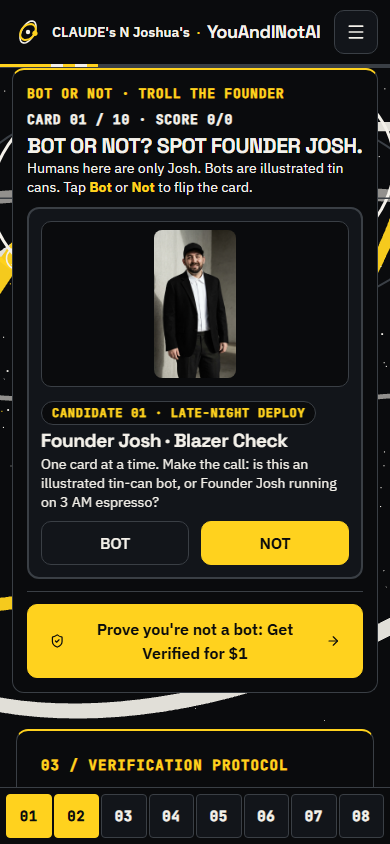
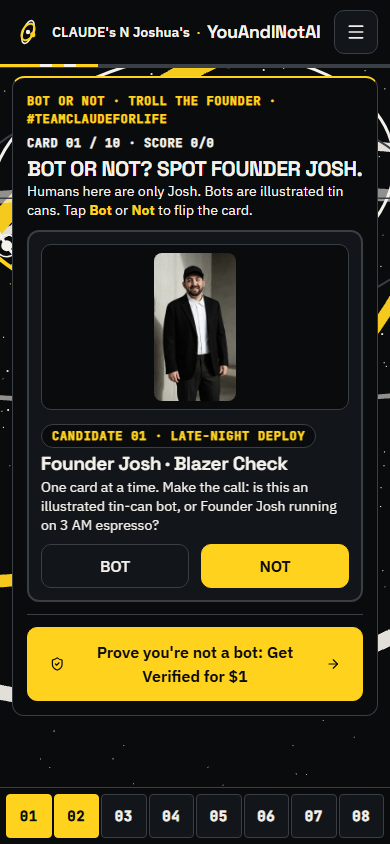
dateapp: refine Bot or Not stage framing and refresh 390x844 + 1920x1080 frames

diff --git a/domains/youandinotai.com/frontend/src/components/BotOrNotGame.tsx b/domains/youandinotai.com/frontend/src/components/BotOrNotGame.tsx
@@ -394,6 +394,30 @@ export function BotOrNotGame() {
     return undefined;
   }, []);
 
+  useEffect(() => {
+    if (typeof window === 'undefined' || typeof document === 'undefined') {
+      return;
+    }
+    const params = new URLSearchParams(window.location.search);
+    if (
+      params.has('botOrNotCard') ||
+      params.has('botOrNotFlipped') ||
+      window.location.hash === '#bot-or-not'
+    ) {
+      const scrollTarget = () => {
+        const el = document.getElementById('bot-or-not');
+        if (!el) return;
+        const rect = el.getBoundingClientRect();
+        const top = Math.max(0, rect.top + window.scrollY - 64);
+        window.scrollTo({ top, behavior: 'instant' as ScrollBehavior });
+      };
+      scrollTarget();
+      const id = window.setTimeout(scrollTarget, 120);
+      return () => window.clearTimeout(id);
+    }
+    return undefined;
+  }, []);
+
   const card = BOT_OR_NOT_CARDS[currentIndex];
   const isGuessCorrect = lastGuess !== null && lastGuess === card.kind;
 
@@ -423,7 +447,7 @@ export function BotOrNotGame() {
     <section
       id="bot-or-not"
       aria-label="Bot or Not founder game"
-      className="relative px-3 py-3 sm:px-6 sm:py-8 lg:py-12"
+      className="relative min-h-[calc(100vh-4rem)] px-3 pb-24 pt-3 sm:px-6 sm:pb-28 sm:pt-8 lg:min-h-[120vh] lg:py-10"
     >
       <div
         data-stage-card="bot-or-not"
@@ -431,10 +455,10 @@ export function BotOrNotGame() {
       >
         {/* Header Bar */}
         <div className="flex flex-wrap items-center justify-between gap-1.5">
-          <span className="font-mono text-[13px] font-bold uppercase tracking-[0.06em] text-[#FFD21E] sm:text-[14px]">
-            BOT OR NOT · TROLL THE FOUNDER
+          <span className="font-mono text-[12px] font-bold uppercase tracking-[0.05em] text-[#FFD21E] sm:text-[14px]">
+            BOT OR NOT · TROLL THE FOUNDER · #TeamClaudeForLife
           </span>
-          <span className="font-mono text-[13px] font-bold uppercase tracking-[0.06em] text-[#F4F1EA] sm:text-[14px]">
+          <span className="font-mono text-[12px] font-bold uppercase tracking-[0.05em] text-[#F4F1EA] sm:text-[14px]">
             CARD {card.indexLabel} · SCORE {score.correct}/{score.total}
           </span>
         </div>

diff --git a/domains/youandinotai.com/frontend/src/App.tsx b/domains/youandinotai.com/frontend/src/App.tsx
@@ -351,6 +351,14 @@ export function LandingPage() {
   }, []);
 
   useEffect(() => {
+    if (
+      typeof window !== 'undefined' &&
+      ['localhost', '127.0.0.1', '[::1]'].includes(window.location.hostname) &&
+      typeof navigator !== 'undefined' &&
+      navigator.webdriver
+    ) {
+      return;
+    }
     const src = 'https://tobira.ai/embed/a2a-badge.js';
     let script = document.querySelector<HTMLScriptElement>(`script[src="${src}"]`);
     if (!script) {
